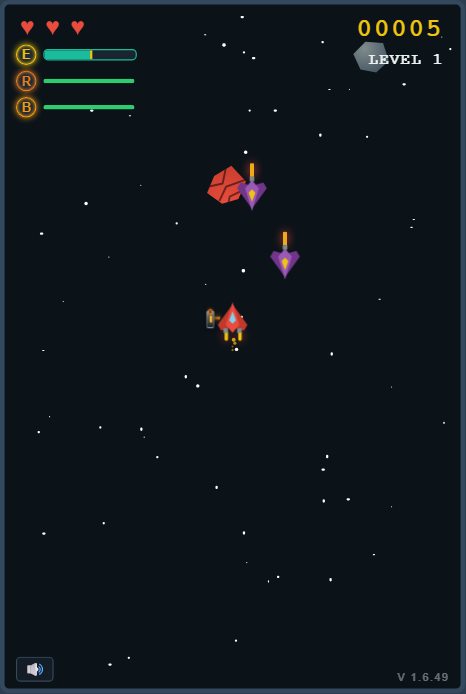
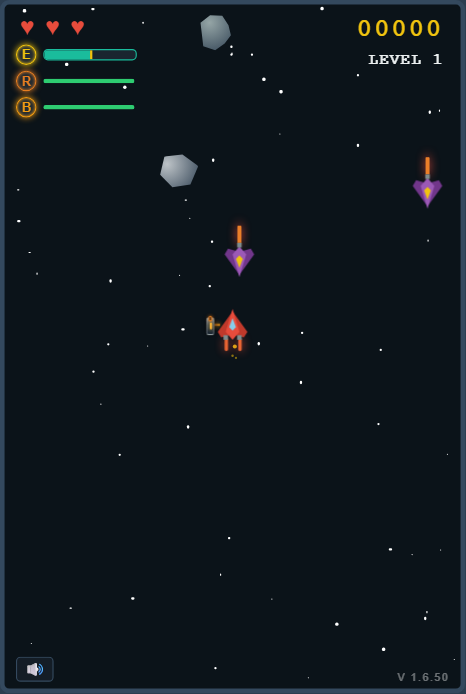
fix(deps): patch qs vulnerability, bump dependencies, release v1.6.50

diff --git a/tests/game.spec.js b/tests/game.spec.js
@@ -22,7 +22,7 @@ test.beforeEach(async ({ page }) => {
 
   // Standardmäßig als bereits gesehen markieren, damit die Tests direkt interagieren können
   await page.addInitScript(() => {
-    localStorage.setItem('starshooter_last_seen_version', '1.6.49');
+    localStorage.setItem('starshooter_last_seen_version', '1.6.50');
     localStorage.setItem('starshooter_skip_cutscene', 'true');
   });
   await page.goto('/');
@@ -918,7 +918,7 @@ test.describe('Was gibt es Neues Modal (Changelog)', () => {
     await expect(title).toContainText("WAS GIBT'S NEUES");
 
     const intro = page.locator('#whats-new-intro');
-    await expect(intro).toContainText('1.6.49');
+    await expect(intro).toContainText('1.6.50');
 
     const items = page.locator('#whats-new-list li');
     await expect(items).toHaveCount(2);
@@ -931,7 +931,7 @@ test.describe('Was gibt es Neues Modal (Changelog)', () => {
 
     // Prüfen, dass localStorage aktualisiert wurde
     const storedVersion = await page.evaluate(() => localStorage.getItem('starshooter_last_seen_version'));
-    expect(storedVersion).toBe('1.6.49');
+    expect(storedVersion).toBe('1.6.50');
 
     // Erneut öffnen über Start-Screen Button
     const openBtn = page.locator('#btn-open-whats-new');

diff --git a/src/js/changelog.js b/src/js/changelog.js
@@ -1,6 +1,14 @@
-export const GAME_VERSION = '1.6.49';
+export const GAME_VERSION = '1.6.50';
 
 export const changelogData = {
+  '1.6.50': {
+    version: '1.6.50',
+    intro: 'Hey, es ist jetzt Version 1.6.50 rausgekommen, folgendes wurde aktualisiert:',
+    highlights: [
+      '🛡 Sicherheits-Patch: Schwachstelle in qs behoben und Abhängigkeiten auf sicheren Stand gebracht',
+      '📦 Toolchain & Test-Updates: Babel-Core/Parser/Generator/Traverse auf v8.0.5 und Playwright Test auf v1.63.0 aktualisiert'
+    ]
+  },
   '1.6.49': {
     version: '1.6.49',
     intro: 'Hey, es ist jetzt Version 1.6.49 rausgekommen, folgendes wurde hinzugefügt:',

diff --git a/src/index.html b/src/index.html
@@ -211,7 +211,7 @@
             <button id="btn-sound-toggle" class="sound-toggle-btn" title="Sound stummschalten (M)" aria-label="Sound stummschalten (M)">🔊</button>
             <div id="score-anzeige">00000</div>
             <div id="level-anzeige">LEVEL 1</div>
-            <div id="version-anzeige">V 1.6.49</div>
+            <div id="version-anzeige">V 1.6.50</div>
             
             <div id="boss-hp-container">
                 <div id="boss-hp-balken"></div>

diff --git a/tests/screenshot.spec.js b/tests/screenshot.spec.js
@@ -2,7 +2,7 @@ const { test, expect } = require('@playwright/test');
 
 test('Generiere Gameplay-Screenshot fuer README.md', async ({ page }) => {
   await page.addInitScript(() => {
-    localStorage.setItem('starshooter_last_seen_version', '1.6.49');
+    localStorage.setItem('starshooter_last_seen_version', '1.6.50');
     localStorage.setItem('starshooter_skip_cutscene', 'true');
   });
 

diff --git a/playwright.config.js b/playwright.config.js
@@ -4,7 +4,7 @@ module.exports = defineConfig({
   testDir: './tests',
   fullyParallel: true,
   forbidOnly: !!process.env.CI,
-  retries: process.env.CI ? 2 : 0,
+  retries: process.env.CI ? 2 : 1,
   workers: process.env.CI ? 1 : undefined,
   reporter: [['html', { open: 'never' }]],
   use: {

diff --git a/README.md b/README.md
@@ -2,8 +2,8 @@
 
 Ein klassisches "Space Shooter"-Browserspiel, das komplett **ohne HTML5-Canvas** auskommt und stattdessen die performante Positionierung und Transformation von DOM-Elementen (via `CSS position: absolute`, `transform` und inline SVG-Grafiken) nutzt.
 
-![Version](https://img.shields.io/badge/version-1.6.49-blue.svg)
-![Playwright Tests](https://img.shields.io/badge/tests-131%20passing-brightgreen.svg)
+![Version](https://img.shields.io/badge/version-1.6.50-blue.svg)
+![Playwright Tests](https://img.shields.io/badge/tests-132%20passing-brightgreen.svg)
 ![WebRTC Multiplayer](https://img.shields.io/badge/multiplayer-WebRTC%20P2P-orange.svg)
 
 <p align="center">
